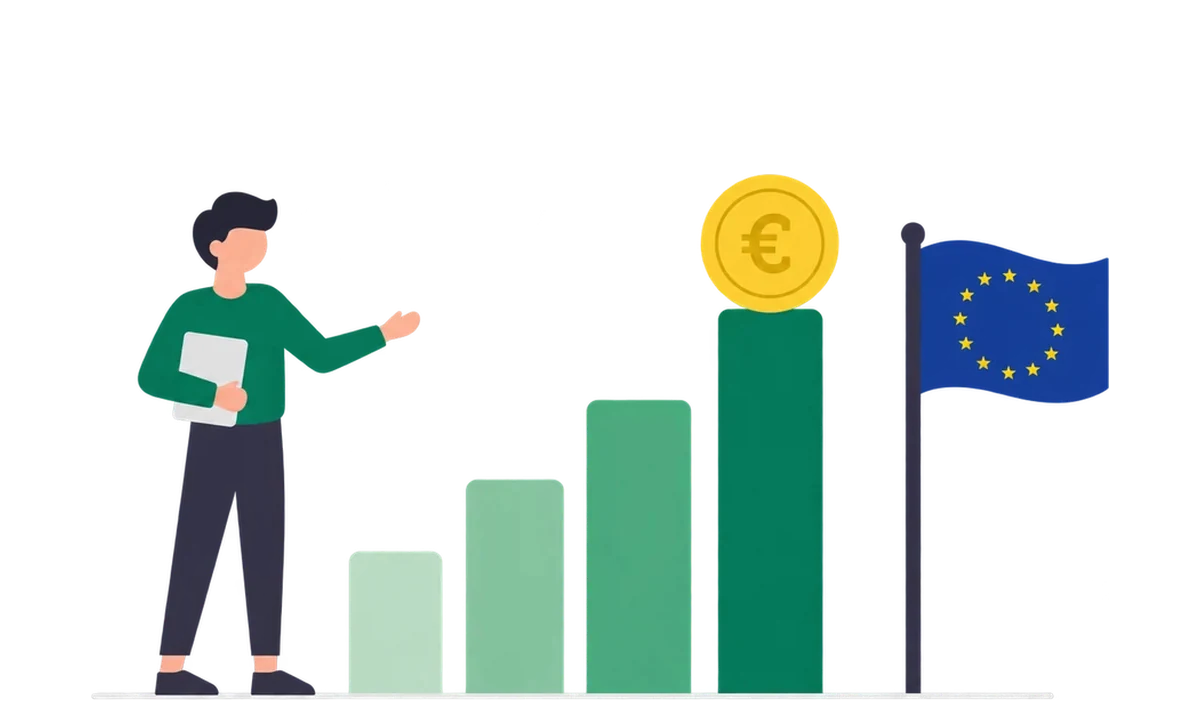
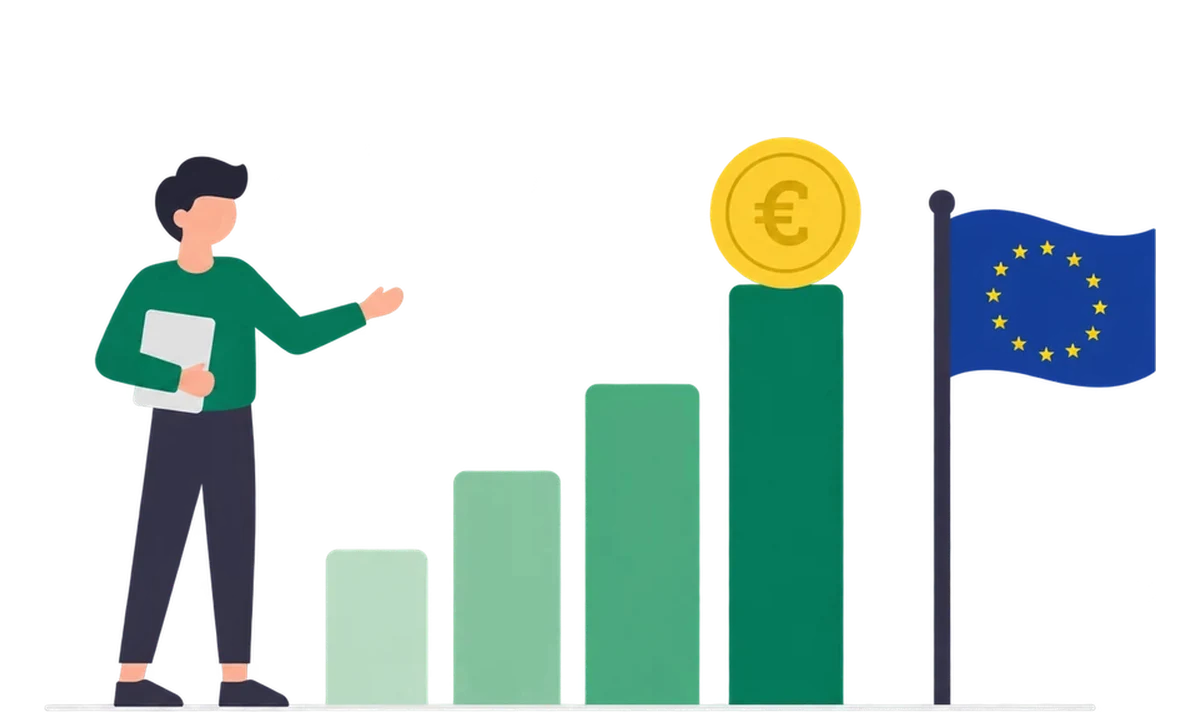
feat: larger illustrations with the ground line near the card edge

Changed region(s): [[0.0617, 0.1833, 0.9867, 1.0]]

diff --git a/hub/static/style.css b/hub/static/style.css
@@ -10,7 +10,7 @@
 
 /* Categories and tools from tools.json (27 cards, 3 per row). The header is the name in lower case and a green dot, no mark. */
 .brand{gap:0}.card-grid{grid-template-columns:repeat(3,minmax(0,1fr));gap:20px}.card-visual{height:210px}.card-top{justify-content:space-between;padding:14px 23px 10px}.card-status{font-size:13px;font-weight:600;color:var(--muted)}.card-status.live{color:var(--green)}.tool-card.soon .arrow{color:var(--muted)}.card-copy h4{font-size:27px;letter-spacing:-.045em;line-height:1.1;margin:0 0 9px}.card-copy p{min-height:0}.card-cta{margin-top:20px}
-.soon-visual{background:linear-gradient(180deg,#f4f9f5,#e9f3ec)}.soon-visual img{display:block;width:100%;height:100%;object-fit:contain;padding:8px 10px}
+.soon-visual{background:linear-gradient(180deg,#f4f9f5,#e9f3ec)}.soon-visual img{display:block;width:100%;height:100%;object-fit:contain;object-position:center bottom;padding:6px 8px 3px}
 .group-nav{display:flex;flex-wrap:wrap;gap:8px 24px;margin:0 0 8px}.group-nav a{font-size:15px;font-weight:600;color:var(--muted)}.group-nav a:hover{color:var(--green)}
 .group{margin-top:38px}.group-head{display:flex;align-items:baseline;justify-content:space-between;border-top:1px solid var(--line);padding:18px 0 16px}.group-head h3{font-size:30px;letter-spacing:-.05em;margin:0}.group-head span{font-size:14px;color:var(--muted)}
 .tool-page{padding:clamp(40px,4vw,64px) clamp(24px,10vw,150px) 80px}.crumbs{display:flex;gap:10px;font-size:14px;color:var(--muted);margin-bottom:26px}.crumbs a:hover{color:var(--green)}.tool-page h1{font-size:clamp(46px,5.4vw,76px);letter-spacing:-.065em;line-height:1;margin:12px 0 16px}.tool-line{color:var(--muted);font-size:clamp(18px,1.6vw,21px);max-width:640px;margin:0}.tool-visual{height:320px;margin:34px 0 40px}.tool-cols{display:grid;grid-template-columns:1fr 1fr;gap:48px;margin-bottom:44px}.tool-cols h2{font-size:24px;letter-spacing:-.04em;margin:0 0 12px}.tool-cols h2+p,.tool-cols ul{margin:0 0 26px;line-height:1.5}.tool-cols ul{padding-left:20px}.tool-cols li{margin-bottom:8px}.tool-cols a{color:var(--green);border-bottom:1px solid #a1c9b2}.tool-page .text-link span{margin:0 10px 0 0}

diff --git a/hub/tools/fit_illustrations.py b/hub/tools/fit_illustrations.py
@@ -8,9 +8,9 @@ from PIL import Image
 
 DIR = Path(__file__).resolve().parent.parent / "static" / "illustrations"
 W, H = 1200, 720
-MAX_W, MAX_H = 1130, 660  # the drawing never goes closer than 35 px to the sides, 30 px to the top
-BASE = 700                # bottom of every drawing (its ground line) sits here
-AREA = 0.62 * W * H       # same visual size: equal bounding-box area, unless that breaks MAX_W/MAX_H
+MAX_W, MAX_H = 1160, 684  # the drawing never goes closer than 20 px to the sides, 28 px to the top
+BASE = 712                # bottom of every drawing (its ground line) sits here, just above the card edge
+AREA = 0.74 * W * H       # same visual size: equal bounding-box area, unless that breaks MAX_W/MAX_H
 
 
 def fit(img):
@@ -19,11 +19,14 @@ def fit(img):
     art = img.crop(box)
     w, h = art.size
     s = min(MAX_W / w, MAX_H / h, (AREA / (w * h)) ** 0.5)
-    nw, nh = round(w * s), round(h * s)
-    if abs(s - 1) < 0.02 and box[3] in range(BASE - 2, BASE + 3):
-        return None  # already fitted
+    if abs(s - 1) < 0.02:  # right size already: only move it, no resampling
+        if box[3] in range(BASE - 2, BASE + 3):
+            return None
+        s = 1
+    else:
+        art = art.resize((round(w * s), round(h * s)), Image.LANCZOS)
     out = Image.new("RGBA", (W, H), (0, 0, 0, 0))
-    out.paste(art.resize((nw, nh), Image.LANCZOS), ((W - nw) // 2, BASE - nh))
+    out.paste(art, ((W - art.width) // 2, BASE - art.height))
     return out
 
 

diff --git a/hub/static/illustrations/LICENSE.md b/hub/static/illustrations/LICENSE.md
@@ -11,8 +11,9 @@ any, in and to Output.“ Уговорка там: изходът може да 
 
 **Формат.** WebP 1200 × 720 (5:3), прозрачен фон, 20-70 KB. Фонът идва от картона на хъба.
 **Мащаб.** Всички са приведени с `tools/fit_illustrations.py` (27.09.2026): рисунката е изрязана от
-празното и увеличена до еднаква площ (около 62% от платното), но не по-широка от 1130 px и не
-по-висока от 660 px. Долният ѝ край (линията на земята) е на y = 700 при всички. Широките сцени
+празното и увеличена до еднаква площ (около 74% от платното), но не по-широка от 1160 px и не
+по-висока от 684 px. Долният ѝ край (линията на земята) е на y = 712 при всички, а картонът я показва
+закотвена долу (`object-position: bottom`), на около 5 px от ръба, без да реже рисунката. Широките сцени
 (Имоти, Парламент, Пътна обстановка) опират в ширината и затова изглеждат малко по-ниски.
 Оригиналите PNG 1619 × 971 са в историята на git (commit „Add files via upload“, 27.09.2026) и при
 собственика.

diff --git a/hub/README.md b/hub/README.md
@@ -13,7 +13,7 @@
   фон, генерирани с GPT Image; права, стил и правила за нови в
   [static/illustrations/LICENSE.md](static/illustrations/LICENSE.md)). След всяка нова или сменена
   илюстрация се пуска `python tools/fit_illustrations.py`: изрязва празното, привежда рисунката до
-  общия размер и я слага на общата линия на земята (y = 700), за да са всички картони в един мащаб.
+  общия размер и я слага на общата линия на земята (y = 712, близо до долния ръб на картона), за да са всички картони в един мащаб.
 - **`/instrumenti/<слъг>`**: страница за инструмент в подготовка: на какво ще отговаря, източници,
   какво още не знаем. **`/tools.json`**: списъкът за другите инструменти (напр. Моята община).
 - **Нов инструмент заработи:** в `tools.json` се сменя `status` на `active`, добавят се `url_env` и
